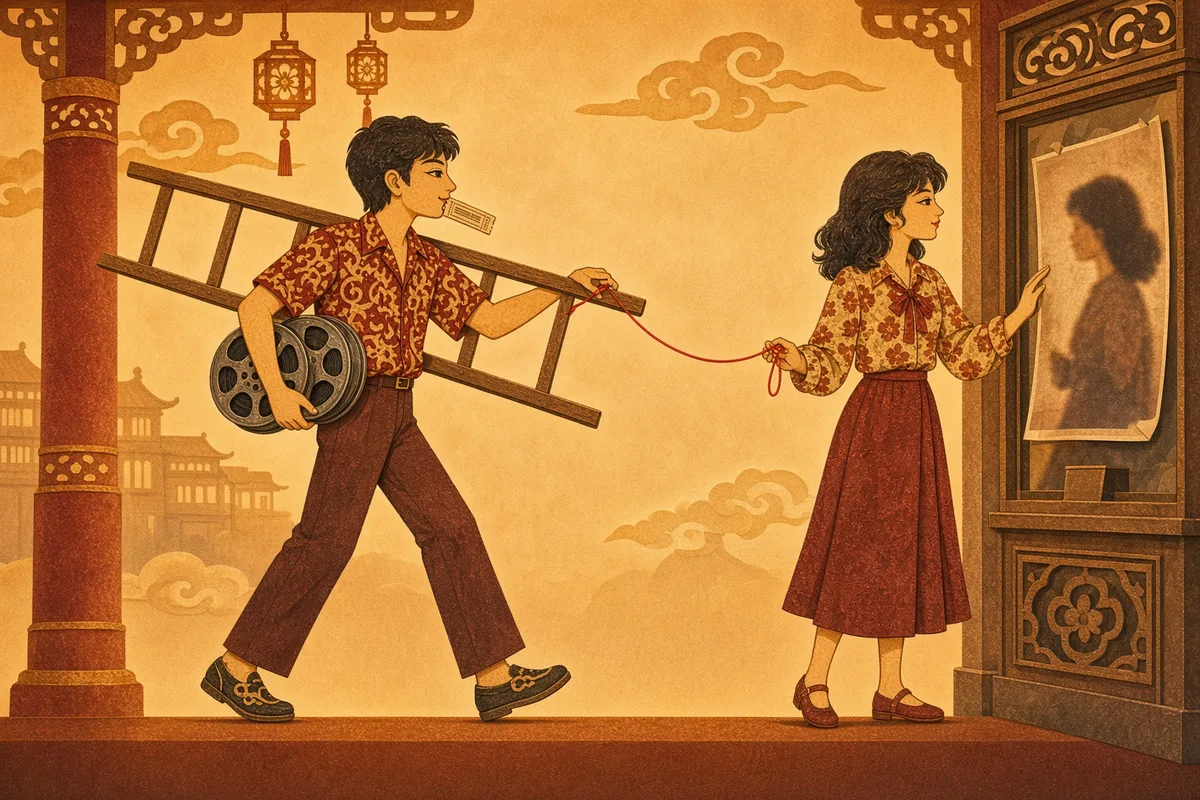
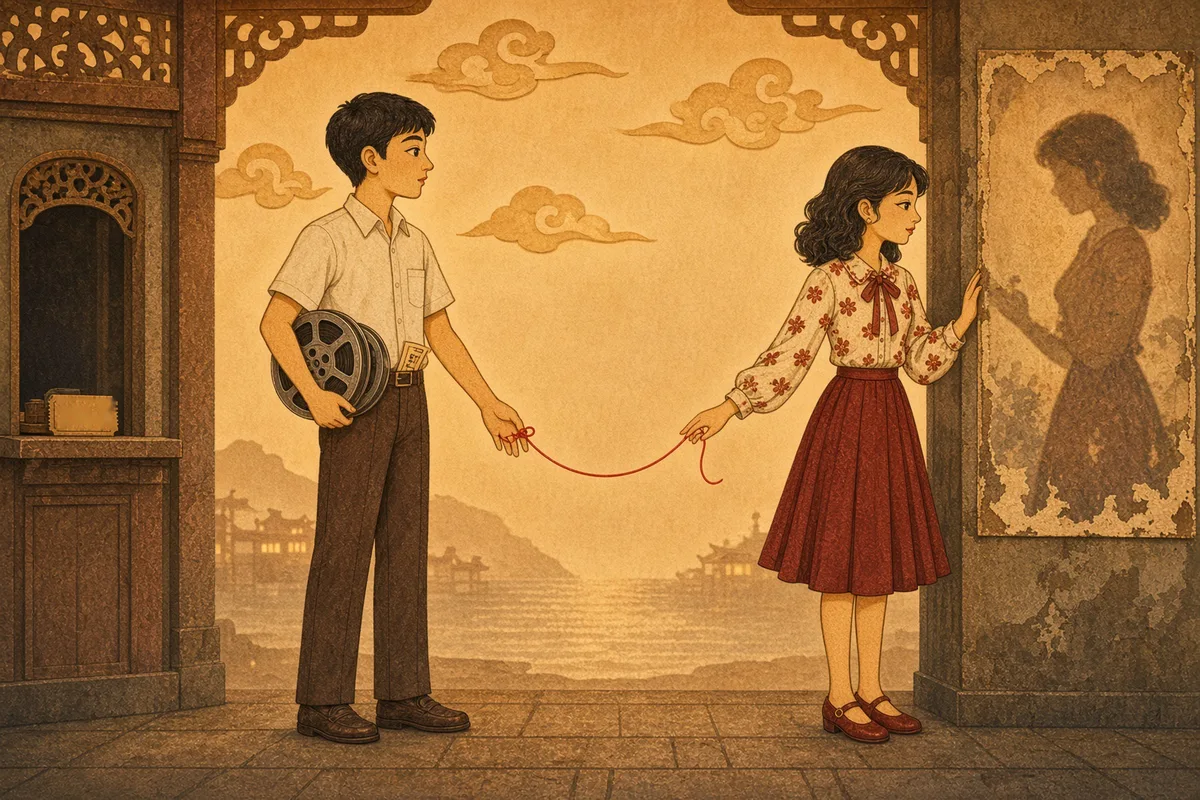
art: final life nine key art (text removed from ticket booth sign)
Claude-Session: https://claude.ai/code/session_01Q6qKZufpbPWy1iH1Uh2w35

diff --git a/src/hx/novel_art.ts b/src/hx/novel_art.ts
@@ -12,7 +12,7 @@ const ART: Record<string, NovelArt> = {
   'ming2-novel': { src: '/art/novel/ming2.webp', alt: '井邊，賈玉珍提著水桶，韋燕春向她借水，身後是一座石橋。', position: '50% 40%' },
   'seventh-novel': { src: '/art/novel/seventh.webp', alt: '彩樓上，劉瑞蓮捧著繡球低頭看著樓下的李奎元，滿月高掛。', position: '50% 50%' },
   'fog-novel': { src: '/art/novel/fog.webp', alt: '雨夜霧港，沈照微在電報行門口拿著電話，陸聞笙捏著一角燒焦的紙，遠處停著汽船。', position: '50% 40%' },
-  'matinee-novel': { src: '/art/novel/matinee.webp', alt: '一九八六年的海邊戲院，許懷生扛著梯子、抱著片盤、咬著票根，紅線從他手上牽到江宜寧手上，她正伸手撫過褪色的舊海報。', position: '50% 25%' },
+  'matinee-novel': { src: '/art/novel/matinee.webp', alt: '一九八六年的海邊戲院門口，抱著片盤的許懷生與站在褪色舊海報前的江宜寧重逢，紅線從他的小指牽到她的小指。', position: '50% 20%' },
 }
 
 const AFTERWORD: NovelArt = { src: '/art/novel/afterword.webp', alt: '天庭，月老坐在攤開的姻緣簿前，金童玉女重逢，土地公端著茶在一旁微笑。', position: '50% 40%' }
